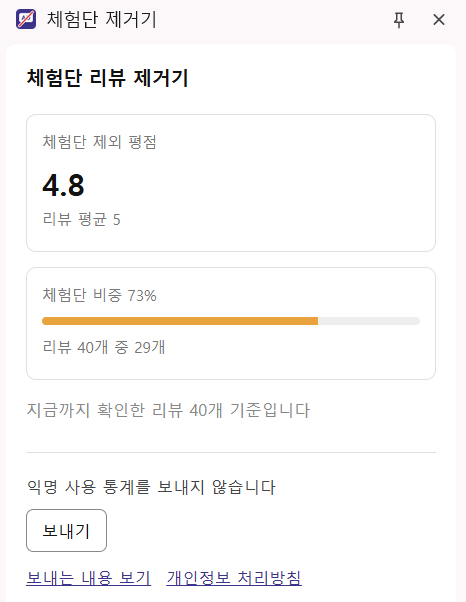
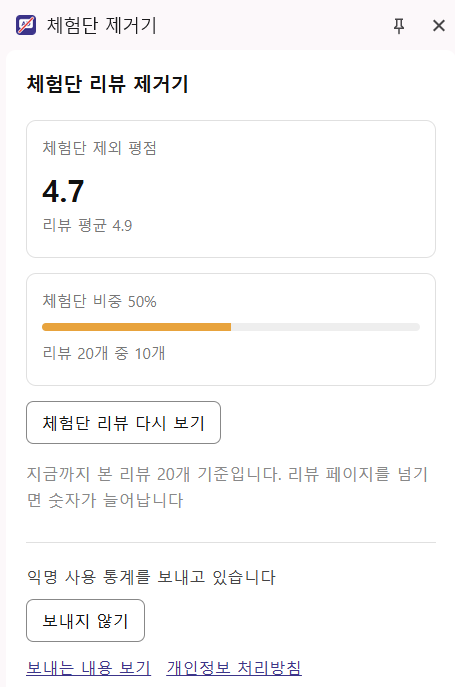
feat: 랜딩의 패널 사진을 1.1.0 화면으로 바꾸고 패널의 숨김 버튼을 설명에 더함

diff --git a/tests/site-pages.test.js b/tests/site-pages.test.js
@@ -340,7 +340,7 @@ describe('랜딩', () => {
     expect(rows.map((row) => norm(row.querySelector('p')))).toEqual([
       '리뷰 위에 원래 평균과 체험단 리뷰를 뺀 평점을 나란히 표시합니다. 숫자는 지금까지 본 리뷰를 기준으로 하고 리뷰를 더 보면 본 만큼 더해집니다.',
       '체험단 제공 리뷰에 표시를 붙입니다. 리뷰 위 배너나 확장 패널의 "체험단 리뷰 숨기기" 버튼을 누르면 숨기고, "체험단 리뷰 다시 보기" 를 누르면 다시 보여 줍니다.',
-      '체험단 비중을 한눈에 봅니다. 쇼핑몰이 리뷰에 직접 붙이는 체험단 안내 문구가 있는 리뷰만 체험단 리뷰로 봅니다. 추측으로 판정하지 않습니다.',
+      '체험단 비중을 한눈에 보고 패널에서도 체험단 리뷰를 숨기거나 다시 볼 수 있습니다. 쇼핑몰이 리뷰에 직접 붙이는 체험단 안내 문구가 있는 리뷰만 체험단 리뷰로 봅니다. 추측으로 판정하지 않습니다.',
       '무신사 상품 페이지와 후기 전체보기에서도 같은 배너가 뜹니다. 무신사가 후기에 직접 붙이는 체험단 표시만 봅니다. 후기 전체보기에서 스크롤하면 본 만큼 숫자가 더해집니다.',
     ])
     for (const row of rows) expect(row.querySelectorAll('h2, p')).toHaveLength(2)
@@ -484,13 +484,13 @@ describe('랜딩', () => {
     expect(imgs.map((img) => img.getAttribute('alt'))).toEqual([
       '리뷰 평균 5, 체험단 제외 4.8 이라고 알려 주는 배너',
       '체험단 제공 리뷰에 표시가 붙은 쿠팡 리뷰 화면',
-      '체험단을 뺀 평점과 체험단 비중을 보여 주는 확장 패널',
+      '체험단을 뺀 평점 4.7, 체험단 비중 50%, 체험단 리뷰 다시 보기 버튼이 있는 확장 패널',
       '무신사 후기 위에 뜬 배너. 지금까지 본 리뷰의 21%가 체험단이고 리뷰 평균 4.8, 체험단 제외 4.7 이라고 알려 준다',
     ])
     expect(imgs.map((img) => [img.getAttribute('width'), img.getAttribute('height')])).toEqual([
       ['815', '237'],
       ['738', '591'],
-      ['466', '602'],
+      ['455', '687'],
       ['1011', '459'],
     ])
   })

diff --git a/site/public/index.html b/site/public/index.html
@@ -60,10 +60,10 @@
       <div class="row">
         <div class="row-text">
           <h2>패널에서 자세히 봅니다</h2>
-          <p>체험단 비중을 한눈에 봅니다. 쇼핑몰이 리뷰에 직접 붙이는 체험단 안내 문구가 있는 리뷰만 체험단 리뷰로 봅니다. 추측으로 판정하지 않습니다.</p>
+          <p>체험단 비중을 한눈에 보고 패널에서도 체험단 리뷰를 숨기거나 다시 볼 수 있습니다. 쇼핑몰이 리뷰에 직접 붙이는 체험단 안내 문구가 있는 리뷰만 체험단 리뷰로 봅니다. 추측으로 판정하지 않습니다.</p>
         </div>
         <div class="shot shot-panel">
-          <img src="/img/panel.png" width="466" height="602" alt="체험단을 뺀 평점과 체험단 비중을 보여 주는 확장 패널" loading="lazy">
+          <img src="/img/panel.png" width="455" height="687" alt="체험단을 뺀 평점 4.7, 체험단 비중 50%, 체험단 리뷰 다시 보기 버튼이 있는 확장 패널" loading="lazy">
         </div>
       </div>
       <div class="row flip row-wide-shot">

diff --git a/scripts/build-site-images.js b/scripts/build-site-images.js
@@ -64,6 +64,7 @@ async function buildBadge() {
 await mkdir(OUT_DIR, { recursive: true })
 await copyUnchanged('banner-4.8.png', 'banner.png')
 await buildBadge()
-await copyUnchanged('panel-4.8.png', 'panel.png')
+// 패널은 1.1.0 의 화면(숨김 버튼, 범위 안내)으로 사용자가 다시 찍은 사진이다.
+await copyUnchanged('panel-1.1.png', 'panel.png')
 // 무신사 배너는 사용자가 실제 크롬에서 찍은 사진이다. 배너와 탭까지만 담겨 이름, 상품, 후기 본문이 없다.
 await copyUnchanged('musinsa-user.png', 'musinsa.png')
